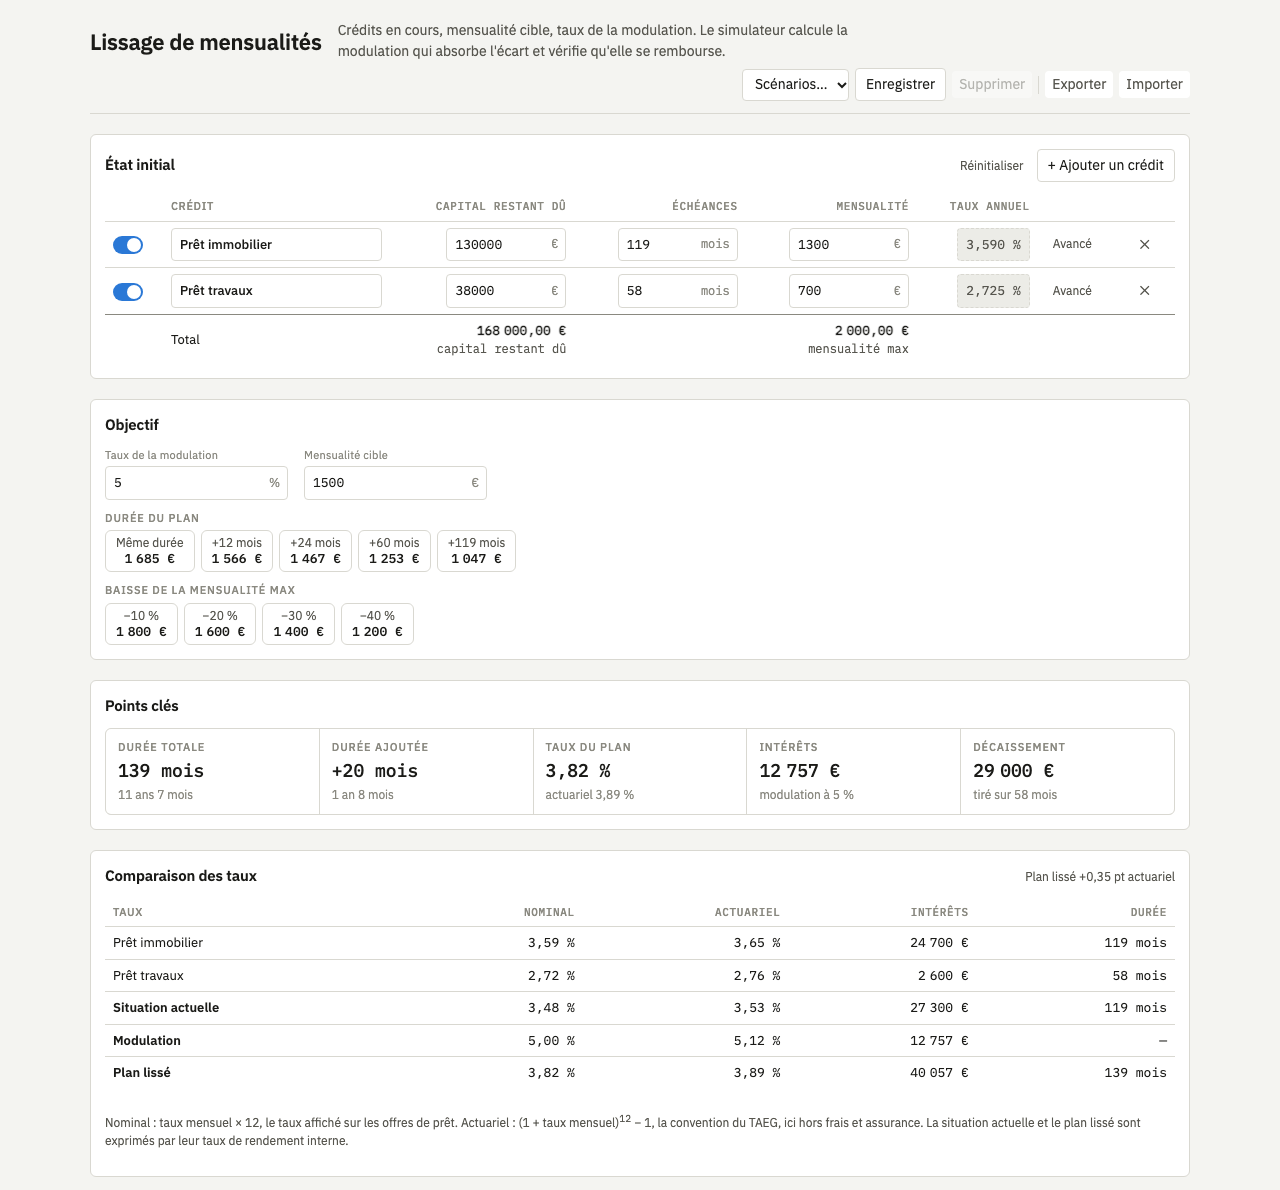
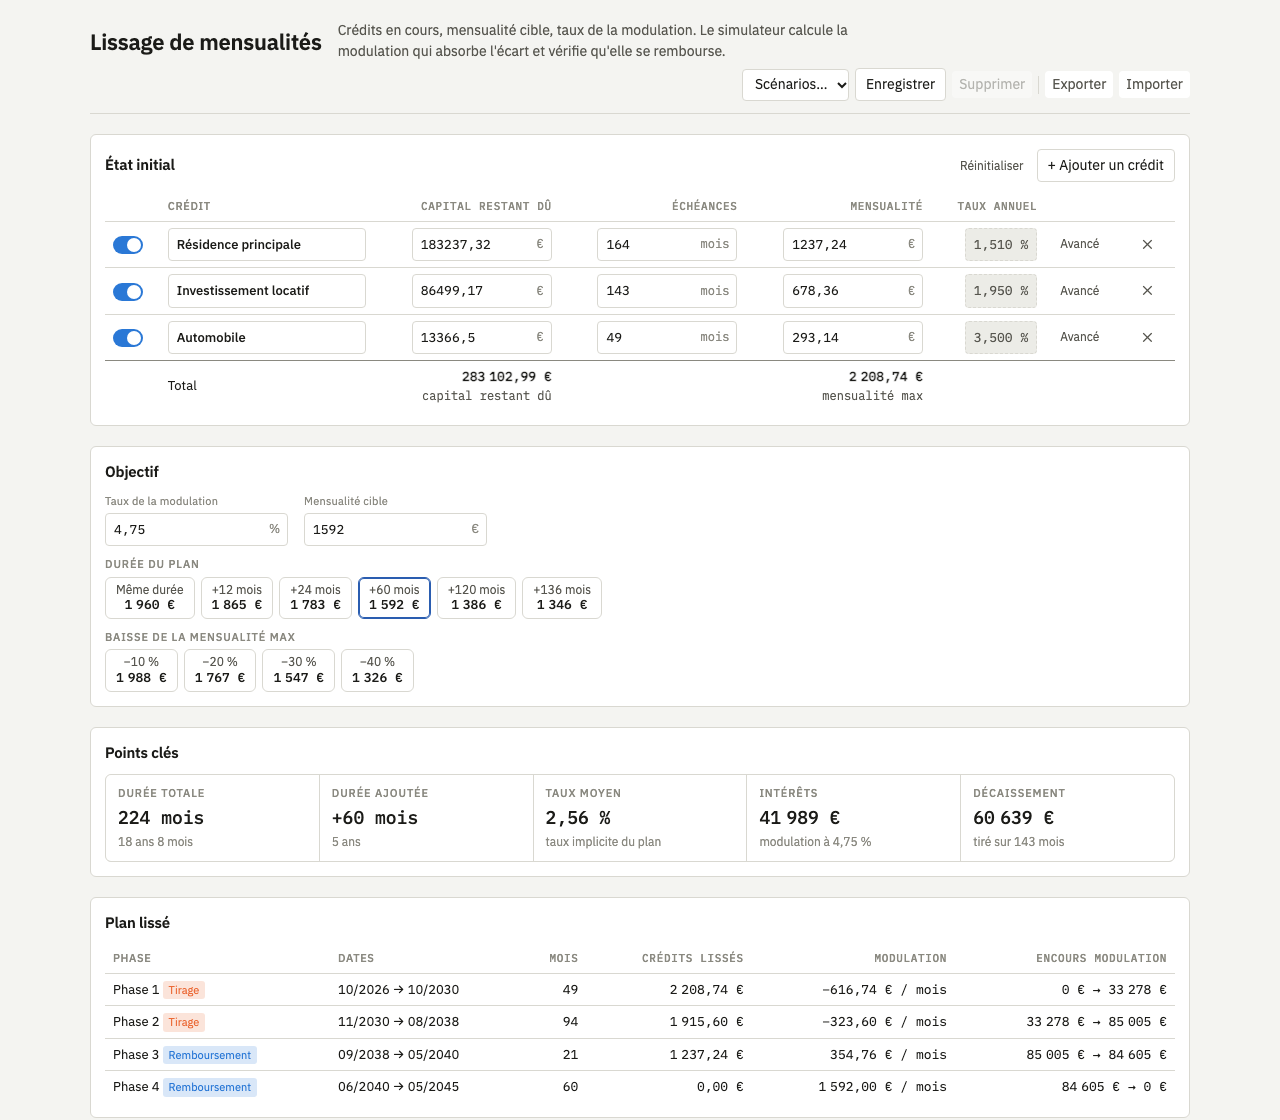
fix: refresh loan totals on edit; realistic example, single rate convention
- Totals row is rebuilt on every update, so editing a cell refreshes the max payment.
- Default example: three loans (home, rental, car) and a 4.75 % line at 1 592 €.
- Drop the nominal/actuarial comparison: every rate is a nominal taux débiteur (annual / 12).

diff --git a/render.js b/render.js
@@ -2,7 +2,7 @@
 (function (root) {
   'use strict';
   const E = root.Engine;
-  const { eur, eur2, pct2, months, years, monthLabel } = root.Fmt;
+  const { eur, eur2, pct2, years, monthLabel } = root.Fmt;
   const $ = (sel) => document.querySelector(sel);
   const ceilEuro = (cents) => Math.ceil(cents / 100) * 100;
 
@@ -76,8 +76,8 @@
     $('#keypoints').innerHTML = [
       tile('Durée totale', done ? `${sim.duration} mois` : `${base.duration} mois`, years(done ? sim.duration : base.duration)),
       tile('Durée ajoutée', done ? `+${extra} mois` : '—', done ? years(extra) : ''),
-      tile('Taux du plan', done && eq.rate !== null ? pct2(eq.rate) : '—', done && eq.rate !== null ? `actuariel ${pct2(E.actuarialRate(eq.rate))}` : 'taux implicite'),
-      tile('Intérêts', done ? eur(sim.lineInterest) : '—', `modulation à ${sim.rate} %`),
+      tile('Taux moyen', done && eq.rate !== null ? pct2(eq.rate) : '—', 'taux implicite du plan'),
+      tile('Intérêts', done ? eur(sim.lineInterest) : '—', `modulation à ${String(sim.rate).replace('.', ',')} %`),
       tile('Décaissement', done ? eur(eq.disbursed) : '—', done ? `tiré sur ${eq.drawMonths} mois` : ''),
     ].join('');
   }
@@ -96,23 +96,6 @@
     root.Charts.draw($('#chart-draws'), [
       { label: 'Tirage du mois', values: sim.months.map((m) => Math.max(-m.lineFlow, 0)), color: 'var(--after)', bars: true },
     ], n, eur, { floor: 10_000, height: 130 });
-  }
-
-  // Nominal vs actuarial rates of each loan, the current situation, the line and the smoothed plan.
-  function rates(rows, sim, loans) {
-    const done = sim.feasible && sim.everDrawn;
-    const nameOf = (id) => loans.find((l) => l.id === id)?.name ?? id;
-    const LABEL = { current: 'Situation actuelle', line: 'Modulation', plan: 'Plan lissé' };
-    const shown = rows.filter((r) => done || (r.kind !== 'line' && r.kind !== 'plan'));
-    const rate = (x) => (x === null ? '—' : pct2(x));
-    table($('#table-rates'), [['Taux'], ['Nominal', 'num'], ['Actuariel', 'num'], ['Intérêts', 'num'], ['Durée', 'num']], shown.map((r) => [
-      r.kind === 'loan' ? nameOf(r.id) : `<b>${LABEL[r.kind]}</b>`,
-      rate(r.nominal), rate(r.actuarial), eur(r.interest), r.months === null ? '—' : months(r.months),
-    ]));
-    const current = rows.find((r) => r.kind === 'current');
-    const plan = rows.find((r) => r.kind === 'plan');
-    const delta = done && current.actuarial !== null && plan.actuarial !== null ? plan.actuarial - current.actuarial : null;
-    $('#rates-delta').textContent = delta === null ? '' : `Plan lissé ${delta >= 0 ? '+' : '−'}${pct2(Math.abs(delta)).replace(' %', ' pt')} actuariel`;
   }
 
   const MODE_LABEL = { draw: 'Tirage', repay: 'Remboursement', none: 'Neutre' };
@@ -146,5 +129,5 @@
     table($('#table-months'), head, rows);
   }
 
-  root.Render = { status, suggestions, keyPoints, rates, charts, afterTable, monthsTable };
+  root.Render = { status, suggestions, keyPoints, charts, afterTable, monthsTable };
 })(window);

diff --git a/app.js b/app.js
@@ -15,9 +15,13 @@
     id, name, enabled: true, advanced: false, capital, months, payment, rate: 0, startOffset: 0, segments: [{ months, payment }], closing: 'continue',
   });
   const DEFAULT_STATE = {
-    loans: [simpleLoan('A', 'Prêt immobilier', 130000, 119, 1300), simpleLoan('B', 'Prêt travaux', 38000, 58, 700)],
-    nextId: 3,
-    line: { rate: 5, target: 1500 },
+    loans: [
+      simpleLoan('A', 'Résidence principale', 183237.32, 164, 1237.24),
+      simpleLoan('B', 'Investissement locatif', 86499.17, 143, 678.36),
+      simpleLoan('C', 'Automobile', 13366.5, 49, 293.14),
+    ],
+    nextId: 4,
+    line: { rate: 4.75, target: 1592 },
   };
 
   // v1 stored { capital, months, payment, enabled } per loan and { rate, target, start } for the line.
@@ -145,10 +149,13 @@
     t.innerHTML = `<thead><tr>${HEAD.map((h, i) => `<th class="${i >= 2 && i <= 5 ? 'num' : ''}">${h}</th>`).join('')}</tr></thead><tbody></tbody>`;
     const body = t.querySelector('tbody');
     state.loans.forEach((loan) => body.appendChild(loanRow(loan)));
-    const valid = state.loans.filter((l) => l.valid).map(E.fromEuros);
-    const smoothed = valid.filter((l) => l.enabled);
+    t.appendChild(document.createElement('tfoot'));
+  }
+  // Rebuilt on every update: cell edits do not re-render the rows, to keep the focus.
+  function renderTotals(loans) {
+    const smoothed = loans.filter((l) => l.enabled);
     const sumCapital = (list) => list.reduce((s, l) => s + l.capital, 0);
-    t.insertAdjacentHTML('beforeend', `<tfoot><tr><td></td><td>Total</td>${totalCell(sumCapital(valid), sumCapital(smoothed), 'capital restant dû')}<td></td>${totalCell(peakPayment(valid), peakPayment(smoothed), 'mensualité max')}<td colspan="3"></td></tr></tfoot>`);
+    $('#table-loans tfoot').innerHTML = `<tr><td></td><td>Total</td>${totalCell(sumCapital(loans), sumCapital(smoothed), 'capital restant dû')}<td></td>${totalCell(peakPayment(loans), peakPayment(smoothed), 'mensualité max')}<td colspan="3"></td></tr>`;
   }
 
   $('#add-loan').addEventListener('click', () => {
@@ -167,10 +174,10 @@
     const loans = valid.map(E.fromEuros);
     const base = E.baselineSchedule(loans);
     const sim = E.simulateSmoothing(loans, { rate, target });
+    renderTotals(loans);
     R.suggestions(loans, rate, target, (cents) => { state.line.target = cents / 100; $('#line-target').value = state.line.target; update(); });
     R.status(sim, loans, rate);
     R.keyPoints(sim, base);
-    R.rates(E.rateComparison(loans, sim), sim, valid);
     R.afterTable(sim);
     R.charts(sim, base);
     R.monthsTable(sim);

diff --git a/engine.js b/engine.js
@@ -13,9 +13,8 @@
   // Half-up to the cent. Every amount rounded here is non-negative.
   const roundCents = (x) => Math.round(x);
   const toCents = (euros) => Math.round(euros * 100);
+  // Annual rates are nominal (taux débiteur), applied proportionally: monthly = annual / 12.
   const monthlyRate = (annualPct) => annualPct / 100 / 12;
-  // Nominal (proportional) annual rate -> actuarial annual rate, the TAEG convention.
-  const actuarialRate = (annualPct) => (Math.pow(1 + monthlyRate(annualPct), 12) - 1) * 100;
   const sum = (arr, pick) => arr.reduce((s, x) => s + pick(x), 0);
 
   function paymentFor(capital, annualPct, months) {
@@ -260,23 +259,6 @@
     };
   }
 
-  // Rates of each smoothed loan, of the current situation, of the credit line and of the smoothed
-  // plan, under both conventions: nominal (monthly rate × 12) and actuarial (TAEG basis, no fees).
-  function rateComparison(loans, sim) {
-    const smoothedLoans = loans.filter((l) => l.enabled !== false);
-    const base = sim.smoothed;
-    const row = (kind, nominal, interest, months, id = null) => ({
-      kind, id, nominal, actuarial: nominal === null ? null : actuarialRate(nominal), interest, months,
-    });
-    const currentRate = impliedRate(sum(smoothedLoans, (l) => l.capital), base.months.map((m) => m.total));
-    return [
-      ...base.perLoan.map((s, i) => row('loan', smoothedLoans[i].rate, s.interest, s.duration, s.id)),
-      row('current', currentRate, base.totalInterest, base.duration),
-      row('line', sim.rate, sim.lineInterest, null),
-      row('plan', sim.equivalent.rate, base.totalInterest + sim.lineInterest, sim.duration),
-    ];
-  }
-
   // Monotone bisection on the target payment (integer cents): higher target => shorter plan.
   // Returns the smallest target satisfying the predicate, exact to the cent.
   function bisectTarget(loans, rate, predicate) {
@@ -301,7 +283,6 @@
     MAX_MONTHS,
     toCents,
     fromEuros,
-    actuarialRate,
     paymentFor,
     monthsFor,
     rateFor,
@@ -309,7 +290,6 @@
     schedule,
     baselineSchedule,
     simulateSmoothing,
-    rateComparison,
     findMinTarget,
     findTargetForDuration,
     findIsoDurationTarget,

diff --git a/test/engine.test.js b/test/engine.test.js
@@ -10,8 +10,6 @@ const simple = (id, capital, months, payment, extra = {}) => ({
 // annuity formulas are inverses
 const p = E.paymentFor(200000, 3, 240);
 near(p, 1109.20, 0.01);
-near(E.actuarialRate(3), 3.0416, 1e-4);
-assert.equal(E.actuarialRate(0), 0);
 near(E.monthsFor(200000, 3, p), 240, 1e-6);
 near(E.rateFor(200000, 240, p), 3, 1e-6);
 assert.equal(E.rateFor(200000, 240, 500), null);
@@ -120,14 +118,5 @@ assert.ok(eq.rate > 2.7 && eq.rate < 5, `unexpected implied rate ${eq.rate}`);
 assert.equal(eq.disbursed, c(500 * 58) + (E.schedule(B).lastPayment - c(700)));
 assert.equal(eq.drawMonths, 58);
 near(E.paymentFor(eq.capital, eq.rate, eq.months) * eq.months, sim.totalPaid, sim.totalPaid * 0.01);
-
-// rate comparison: every smoothed loan, the current situation, the line and the plan
-const rates = E.rateComparison(loans, sim);
-assert.deepEqual(rates.map((x) => x.kind), ['loan', 'loan', 'current', 'line', 'plan']);
-rates.forEach((x) => assert.ok(x.actuarial > x.nominal, `${x.kind}: actuarial must exceed nominal`));
-const current = rates.find((x) => x.kind === 'current');
-assert.ok(current.nominal > 2.7 && current.nominal < 3.6, `unexpected current rate ${current.nominal}`);
-assert.equal(rates.find((x) => x.kind === 'plan').nominal, eq.rate);
-assert.equal(rates.find((x) => x.kind === 'plan').interest, sim.totalInterest);
 
 console.log('all tests passed');

diff --git a/index.html b/index.html
@@ -53,12 +53,6 @@
   </section>
 
   <section class="card">
-    <div class="card-head"><h2>Comparaison des taux</h2><span id="rates-delta" class="small muted"></span></div>
-    <div class="table-wrap"><table id="table-rates"></table></div>
-    <p class="small muted">Nominal : taux mensuel × 12, le taux affiché sur les offres de prêt. Actuariel : (1 + taux mensuel)<sup>12</sup> − 1, la convention du TAEG, ici hors frais et assurance. La situation actuelle et le plan lissé sont exprimés par leur taux de rendement interne.</p>
-  </section>
-
-  <section class="card">
     <h2>Plan lissé</h2>
     <div class="table-wrap"><table id="table-after"></table></div>
   </section>

diff --git a/style.css b/style.css
@@ -62,7 +62,7 @@ section.block, .block { display: grid; gap: 12px; }
 .block-head { display: flex; justify-content: space-between; align-items: center; gap: 8px; }
 
 /* editable loans table */
-table.editable input[type="number"] { width: 120px; }
+table.editable input[type="number"] { width: 140px; }
 table.editable input[type="text"] { min-width: 140px; font-weight: 500; }
 table.editable td { vertical-align: middle; }
 table.editable tr.off td { opacity: 0.55; }

diff --git a/test/engine.property.test.js b/test/engine.property.test.js
@@ -81,10 +81,6 @@ test('the minimum target is exact to the cent', () => {
   }), { numRuns: 60 });
 });
 
-test('the actuarial rate is never below the nominal rate', () => {
-  fc.assert(fc.property(rate, (r) => assert.ok(E.actuarialRate(r) >= r - 1e-12)));
-});
-
 test('the IRR of an annuity is its rate', () => {
   fc.assert(fc.property(simpleLoan, (loan) => {
     const { months } = loan.segments[0];

diff --git a/README.md b/README.md
@@ -6,7 +6,7 @@
 **[Live demo →](https://plokkke.github.io/loan-smoothing-simulator/)** (UI in French)
 
 A borrower juggling several loans pays a monthly total that jumps every time a loan starts or ends
-(e.g. 2 000 € for five years, then 1 300 €). This simulator flattens that curve: given the running
+(e.g. 2 209 € for four years, then 1 916 €, then 1 237 €). This simulator flattens that curve: given the running
 loans and a **target monthly payment**, it computes the revolving credit line that absorbs the
 difference — drawing on it while the loans cost more than the target, repaying it once they cost
 less — and checks that the whole structure actually gets repaid.
@@ -24,9 +24,8 @@ less — and checks that the whole structure actually gets repaid.
   infeasible plans (target below the line's interest, or not repaid within 50 years).
 - **Solvers**: minimum repayable target, target keeping the original duration, target for any
   given duration — all by monotone bisection on the simulation.
-- **Rate comparison**: each loan, the current situation, the credit line and the smoothed plan,
-  under both the nominal and the actuarial (TAEG) convention. Aggregates are expressed as the IRR
-  of their cash flows: what a lender would actually underwrite.
+- **Effective rate** of the whole smoothed plan, computed as the IRR of its cash flows: what a
+  lender would actually underwrite.
 - **Advanced loans**: explicit rate, deferred start, stepped schedules, balloon or continued
   closing payment.
 - Named scenarios, JSON export/import, `localStorage` persistence. Zero runtime dependencies, no
@@ -56,7 +55,10 @@ npm test
 
 ## Model
 
-- Monthly rate = annual rate / 12 (proportional rate).
+- One rate convention everywhere: annual rates are nominal (French *taux débiteur*), applied
+  proportionally, monthly rate = annual rate / 12. This holds for the loans, the credit line and
+  the plan's effective rate, so they compare directly. A TAEG, which compounds monthly and
+  includes fees and insurance, is a different quantity and should not be entered as a rate.
 - Each month the borrower pays the target `T`. The credit line receives `T − Σ loan payments`:
   negative means a draw, capitalised with interest; positive means a repayment (the line's capital
   only decreases once the payment exceeds the month's interest).
@@ -77,13 +79,6 @@ Floating-point euros drift silently over hundreds of months, so the engine separ
   producing a phantom month.
 - **Rates, solvers and IRR stay floating point**: they are numerical methods, never booked. The
   target solvers bisect directly on integer cents, so their results are exact.
-
-## Rates: nominal vs actuarial
-
-Loan offers quote a **nominal** rate: the monthly rate × 12. The **actuarial** rate compounds it,
-`(1 + monthly)^12 − 1`, which is the convention of the French/EU TAEG (APRC). 5 % nominal is
-5.12 % actuarial. The comparison table shows both; the TAEG proper would also include fees and
-insurance, which are out of scope here.
 
 ## Layout
 
